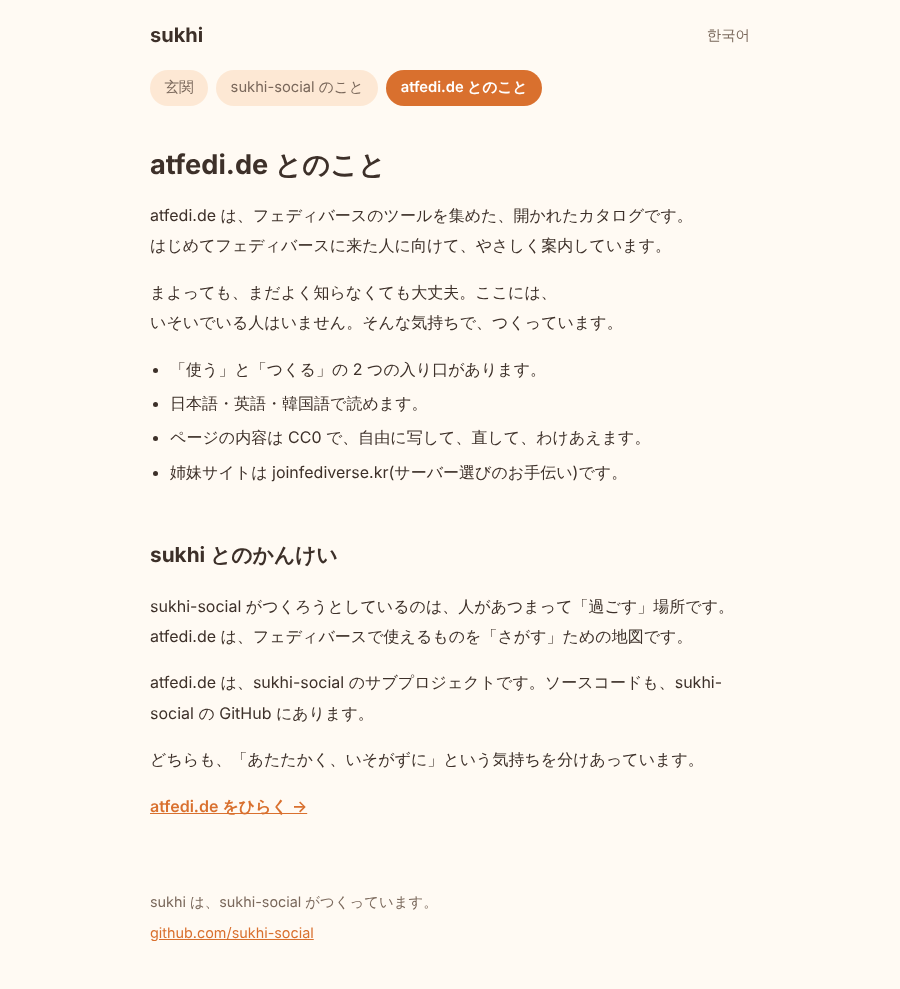
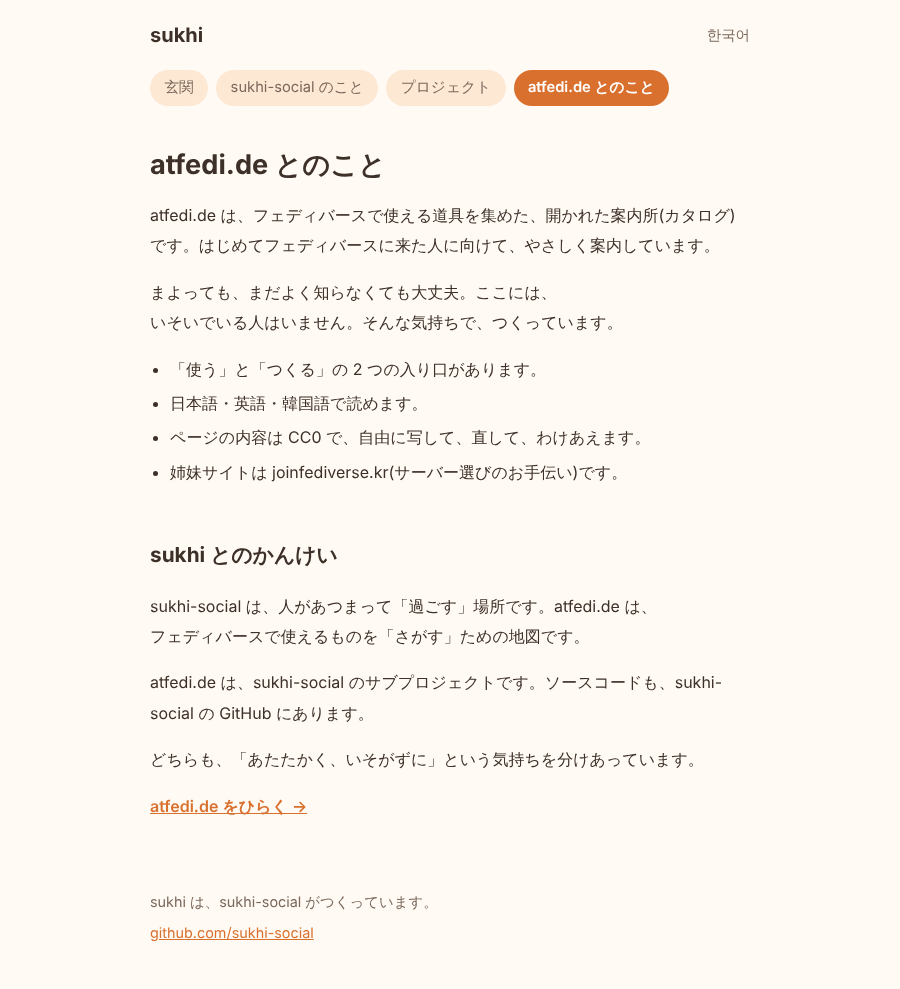
Split the place and the projects into their own pages; plainer words for non-technical readers
Claude-Session: https://claude.ai/code/session_01EUxHZau6UP3xLAsGqKBsmf

Changed region(s): [[0.1556, 0.6067, 0.8089, 0.6673], [0.1556, 0.2123, 0.8089, 0.273], [0.4356, 0.0607, 0.7467, 0.1213]]

diff --git a/src/content.ts b/src/content.ts
@@ -12,7 +12,7 @@ export const FEDI_REPO_URL = 'https://github.com/sukhi-social/sukhi-fedi';
 export const ATFEDI_URL = 'https://atfedi.de';
 
 export type Locale = 'ja' | 'ko';
-export type PageKey = 'gate' | 'projects' | 'atfedi';
+export type PageKey = 'gate' | 'place' | 'projects' | 'atfedi';
 
 interface Project {
   name: string;
@@ -24,6 +24,11 @@ interface Door {
   key: Exclude<PageKey, 'gate'>;
   title: string;
   text: string;
+}
+
+interface Block {
+  heading: string;
+  text: string[];
 }
 
 interface Copy {
@@ -38,13 +43,15 @@ interface Copy {
   footer: string;
   notFound: { title: string; text: string; back: string };
   gate: { title: string; description: string; lead: string; doorsHeading: string; doors: Door[] };
+  place: { title: string; description: string; heading: string; blocks: Block[] };
   projects: {
     title: string;
     description: string;
     heading: string;
     lead: string;
-    itemsHeading: string;
     items: Project[];
+    techHeading: string;
+    techText: string;
     more: string;
   };
   atfedi: {
@@ -68,7 +75,7 @@ export const copy: Record<Locale, Copy> = {
     loginNote: 'すでにアカウントがあるかたは、こちらから。',
     langSwitch: '한국어',
     navLabel: 'ページ',
-    nav: { gate: '玄関', projects: 'sukhi-social のこと', atfedi: 'atfedi.de とのこと' },
+    nav: { gate: '玄関', place: 'sukhi-social のこと', projects: 'プロジェクト', atfedi: 'atfedi.de とのこと' },
     footer: 'sukhi は、sukhi-social がつくっています。',
     notFound: {
       title: 'あれれ、ここには何もないみたいです',
@@ -81,30 +88,60 @@ export const copy: Record<Locale, Copy> = {
       lead: 'sukhi-social は、人があつまれて、さらっと立ち寄れる、和やかな場所です。ずっといても、ちょっと顔を出すだけでも、大丈夫。いそがず、ゆっくり見ていってください。',
       doorsHeading: 'どこから見ましょうか',
       doors: [
-        { key: 'projects', title: 'sukhi-social のこと', text: 'どんな場所なのか、いまなにをつくっているのかを書きました。' },
-        { key: 'atfedi', title: 'atfedi.de とのこと', text: 'フェディバースのカタログ atfedi.de と、sukhi のかんけいを書きました。' }
+        { key: 'place', title: 'sukhi-social のこと', text: 'どんな場所で、どんな気持ちでひらいているのかを、書きました。' },
+        { key: 'projects', title: 'プロジェクト', text: 'この場所のために、いまつくっているものを紹介します。' },
+        { key: 'atfedi', title: 'atfedi.de とのこと', text: '「はじめて」の人のための道案内、atfedi.de と sukhi のかんけいです。' }
+      ]
+    },
+    place: {
+      title: 'sukhi-social のこと — sukhi',
+      description: 'sukhi-social は、人があつまれて、さらっと立ち寄れる、和やかな場所です。',
+      heading: 'sukhi-social のこと',
+      blocks: [
+        {
+          heading: 'どんな場所？',
+          text: [
+            'sukhi-social は、人があつまれて、さらっと立ち寄れる、和やかな場所です。',
+            'ずっといてもいいし、ちょっと顔を出すだけでもいい。どちらも、ここでは「ふつう」です。'
+          ]
+        },
+        {
+          heading: '大切にしていること',
+          text: [
+            'あたたかく、いそがないこと。わからなくても、まよっても、大丈夫なこと。',
+            '「あたたかいみんなといっしょに」が、いちばん最初の約束です。'
+          ]
+        },
+        {
+          heading: 'どこにあるの？',
+          text: [
+            'これから、sukhi.social でひらく予定です。はじめて来た人も、ここ(about)で様子を見てから、ログインできます。',
+            'sukhi は「フェディバース」の仲間です。フェディバースは、いろいろな SNS やサービスが、おたがいにつながっている世界のこと。むずかしい知識は、いりません。'
+          ]
+        }
       ]
     },
     projects: {
-      title: 'sukhi-social のこと — sukhi',
-      description: 'sukhi-social という場所と、いまつくっているものの紹介です。',
-      heading: 'sukhi-social のこと',
-      lead: 'sukhi-social は、人があつまれて、さらっと訪ねられる、和やかな空間をつくっている GitHub の組織です。ここは、その入口です。つくっているものは、ぜんぶ公開していて、だれでも読めます。',
-      itemsHeading: 'いま、つくっているもの',
+      title: 'プロジェクト — sukhi',
+      description: 'sukhi-social が、この場所のためにつくっているものの紹介です。',
+      heading: 'プロジェクト',
+      lead: 'この場所を支えるために、sukhi-social ではいろいろなものをつくっています。ぜんぶ公開していて、だれでも中を見られます。むずかしそうに見えたら、ひとことの説明だけ読んでもらえれば大丈夫です。',
       items: [
-        { name: 'sukhi-fedi', href: FEDI_REPO_URL, text: 'この場所の土台にするソフトウェア。Mastodon / Misskey の API と互換性のある、フェディバースの SNS サーバー。' },
-        { name: 'atfedi.de', href: ATFEDI_URL, text: 'フェディバースのツールを集めたカタログ。くわしくは「atfedi.de とのこと」で。' },
-        { name: 'mazemaze-api', href: 'https://github.com/sukhi-social/mazemaze-api', text: 'Misskey / Mastodon / Bluesky などの API クライアントを、ひとつの生成器から作る試み。' },
-        { name: 'ojak-ex', href: 'https://github.com/sukhi-social/ojak-ex', text: 'Elixir 向けの、署名と JSON-LD のライブラリ。' }
+        { name: 'sukhi-fedi', href: FEDI_REPO_URL, text: 'sukhi.social を動かす、SNS のしくみ(ソフトウェア)。Mastodon や Misskey のアプリとも、つなぎやすいようにつくっています。' },
+        { name: 'atfedi.de', href: ATFEDI_URL, text: 'フェディバースの道具を集めた案内所。くわしくは「atfedi.de とのこと」で。' },
+        { name: 'mazemaze-api', href: 'https://github.com/sukhi-social/mazemaze-api', text: 'Misskey や Mastodon などの SNS につなぐアプリを、つくりやすくするための部品づくり。' },
+        { name: 'ojak-ex', href: 'https://github.com/sukhi-social/ojak-ex', text: 'SNS どうしがやりとりするときの「署名」など、裏方のしくみを扱う部品(Elixir という言語向け)。' }
       ],
+      techHeading: 'プログラムが読めるかたへ',
+      techText: 'ソースコードは GitHub で公開しています。気になるものがあれば、のぞいてみてください。',
       more: 'GitHub で ぜんぶ見る'
     },
     atfedi: {
       title: 'atfedi.de とのこと — sukhi',
-      description: 'フェディバースのツールのカタログ atfedi.de と、sukhi のかんけいについて。',
+      description: 'フェディバースの道具の案内所 atfedi.de と、sukhi のかんけいについて。',
       heading: 'atfedi.de とのこと',
       what: [
-        'atfedi.de は、フェディバースのツールを集めた、開かれたカタログです。はじめてフェディバースに来た人に向けて、やさしく案内しています。',
+        'atfedi.de は、フェディバースで使える道具を集めた、開かれた案内所(カタログ)です。はじめてフェディバースに来た人に向けて、やさしく案内しています。',
         'まよっても、まだよく知らなくても大丈夫。ここには、いそいでいる人はいません。そんな気持ちで、つくっています。'
       ],
       facts: [
@@ -130,7 +167,7 @@ export const copy: Record<Locale, Copy> = {
     loginNote: '이미 계정이 있다면 여기로 오세요.',
     langSwitch: '日本語',
     navLabel: '페이지',
-    nav: { gate: '현관', projects: 'sukhi-social 이야기', atfedi: 'atfedi.de 이야기' },
+    nav: { gate: '현관', place: 'sukhi-social 이야기', projects: '프로젝트', atfedi: 'atfedi.de 이야기' },
     footer: 'sukhi는 sukhi-social이 만들고 있어요.',
     notFound: {
       title: '어라, 여기엔 아무것도 없는 것 같아요',
@@ -143,30 +180,60 @@ export const copy: Record<Locale, Copy> = {
       lead: 'sukhi-social은 사람들이 모일 수 있고, 가볍게 들를 수도 있는 포근한 공간이에요. 오래 머물러도, 잠깐 얼굴만 비춰도 괜찮아요. 서두르지 말고 천천히 둘러보세요.',
       doorsHeading: '어디부터 볼까요',
       doors: [
-        { key: 'projects', title: 'sukhi-social 이야기', text: '어떤 공간인지, 지금 무엇을 만들고 있는지 적었어요.' },
-        { key: 'atfedi', title: 'atfedi.de 이야기', text: '페디버스 카탈로그 atfedi.de와 sukhi의 관계를 적었어요.' }
+        { key: 'place', title: 'sukhi-social 이야기', text: '어떤 공간이고, 어떤 마음으로 열고 있는지 적었어요.' },
+        { key: 'projects', title: '프로젝트', text: '이 공간을 위해 지금 만들고 있는 것들을 소개해요.' },
+        { key: 'atfedi', title: 'atfedi.de 이야기', text: '‘처음’인 분들을 위한 길잡이 atfedi.de와 sukhi의 관계예요.' }
+      ]
+    },
+    place: {
+      title: 'sukhi-social 이야기 — sukhi',
+      description: 'sukhi-social은 사람들이 모이고 가볍게 들를 수 있는 포근한 공간이에요.',
+      heading: 'sukhi-social 이야기',
+      blocks: [
+        {
+          heading: '어떤 공간인가요?',
+          text: [
+            'sukhi-social은 사람들이 모일 수 있고, 가볍게 들를 수도 있는 포근한 공간이에요.',
+            '오래 머물러도 좋고, 잠깐 얼굴만 비춰도 좋아요. 여기서는 둘 다 ‘보통’이에요.'
+          ]
+        },
+        {
+          heading: '소중히 여기는 것',
+          text: [
+            '따뜻하게, 서두르지 않는 것. 잘 몰라도, 헤매도 괜찮다는 것.',
+            '‘따뜻한 사람들과 함께’가 가장 처음의 약속이에요.'
+          ]
+        },
+        {
+          heading: '어디에 있나요?',
+          text: [
+            '앞으로 sukhi.social에서 열 예정이에요. 처음 온 분도 여기(about)에서 분위기를 보고 나서 로그인할 수 있어요.',
+            'sukhi는 ‘페디버스’의 친구예요. 페디버스는 여러 SNS와 서비스가 서로 이어져 있는 세계를 말해요. 어려운 지식은 필요 없어요.'
+          ]
+        }
       ]
     },
     projects: {
-      title: 'sukhi-social 이야기 — sukhi',
-      description: 'sukhi-social이라는 공간과 지금 만들고 있는 것을 소개해요.',
-      heading: 'sukhi-social 이야기',
-      lead: 'sukhi-social은 사람들이 모이고 가볍게 들를 수 있는 포근한 공간을 만들고 있는 GitHub 조직이에요. 여기는 그 입구예요. 만들고 있는 것은 모두 공개되어 있어서 누구나 읽을 수 있어요.',
-      itemsHeading: '지금 만들고 있는 것',
+      title: '프로젝트 — sukhi',
+      description: 'sukhi-social이 이 공간을 위해 만들고 있는 것들을 소개해요.',
+      heading: '프로젝트',
+      lead: '이 공간을 받쳐 주려고 sukhi-social에서는 여러 가지를 만들고 있어요. 모두 공개되어 있어서 누구나 안을 볼 수 있어요. 어려워 보이면 한 줄 설명만 읽어도 괜찮아요.',
       items: [
-        { name: 'sukhi-fedi', href: FEDI_REPO_URL, text: '이 공간의 토대로 쓸 소프트웨어예요. Mastodon / Misskey API와 호환되는 페디버스 SNS 서버예요.' },
-        { name: 'atfedi.de', href: ATFEDI_URL, text: '페디버스 도구를 모아 둔 카탈로그예요. 자세한 이야기는 ‘atfedi.de 이야기’에서 해요.' },
-        { name: 'mazemaze-api', href: 'https://github.com/sukhi-social/mazemaze-api', text: 'Misskey / Mastodon / Bluesky 등의 API 클라이언트를 하나의 생성기에서 만드는 시도예요.' },
-        { name: 'ojak-ex', href: 'https://github.com/sukhi-social/ojak-ex', text: 'Elixir용 서명 및 JSON-LD 라이브러리예요.' }
+        { name: 'sukhi-fedi', href: FEDI_REPO_URL, text: 'sukhi.social을 움직이는 SNS의 구조(소프트웨어)예요. Mastodon이나 Misskey 앱과도 쉽게 이어지도록 만들고 있어요.' },
+        { name: 'atfedi.de', href: ATFEDI_URL, text: '페디버스 도구를 모아 둔 안내소예요. 자세한 이야기는 ‘atfedi.de 이야기’에서 해요.' },
+        { name: 'mazemaze-api', href: 'https://github.com/sukhi-social/mazemaze-api', text: 'Misskey나 Mastodon 등 SNS에 연결하는 앱을 만들기 쉽게 해 주는 부품을 만들고 있어요.' },
+        { name: 'ojak-ex', href: 'https://github.com/sukhi-social/ojak-ex', text: 'SNS끼리 주고받을 때 쓰는 ‘서명’ 같은 뒷일을 맡는 부품이에요(Elixir 언어용).' }
       ],
+      techHeading: '프로그램을 읽을 수 있는 분께',
+      techText: '소스 코드는 GitHub에 공개되어 있어요. 궁금한 게 있으면 들여다보세요.',
       more: 'GitHub에서 모두 보기'
     },
     atfedi: {
       title: 'atfedi.de 이야기 — sukhi',
-      description: '페디버스 도구 카탈로그 atfedi.de와 sukhi의 관계에 대해서.',
+      description: '페디버스 도구 안내소 atfedi.de와 sukhi의 관계에 대해서.',
       heading: 'atfedi.de 이야기',
       what: [
-        'atfedi.de는 페디버스 도구를 모아 둔 열린 카탈로그예요. 페디버스에 처음 온 분들을 위해 부드럽게 안내해요.',
+        'atfedi.de는 페디버스에서 쓸 수 있는 도구를 모아 둔 열린 안내소(카탈로그)예요. 페디버스에 처음 온 분들을 위해 부드럽게 안내해요.',
         '헤매도, 아직 잘 몰라도 괜찮아요. 여기에는 서두르는 사람이 없어요. 그런 마음으로 만들고 있어요.'
       ],
       facts: [
